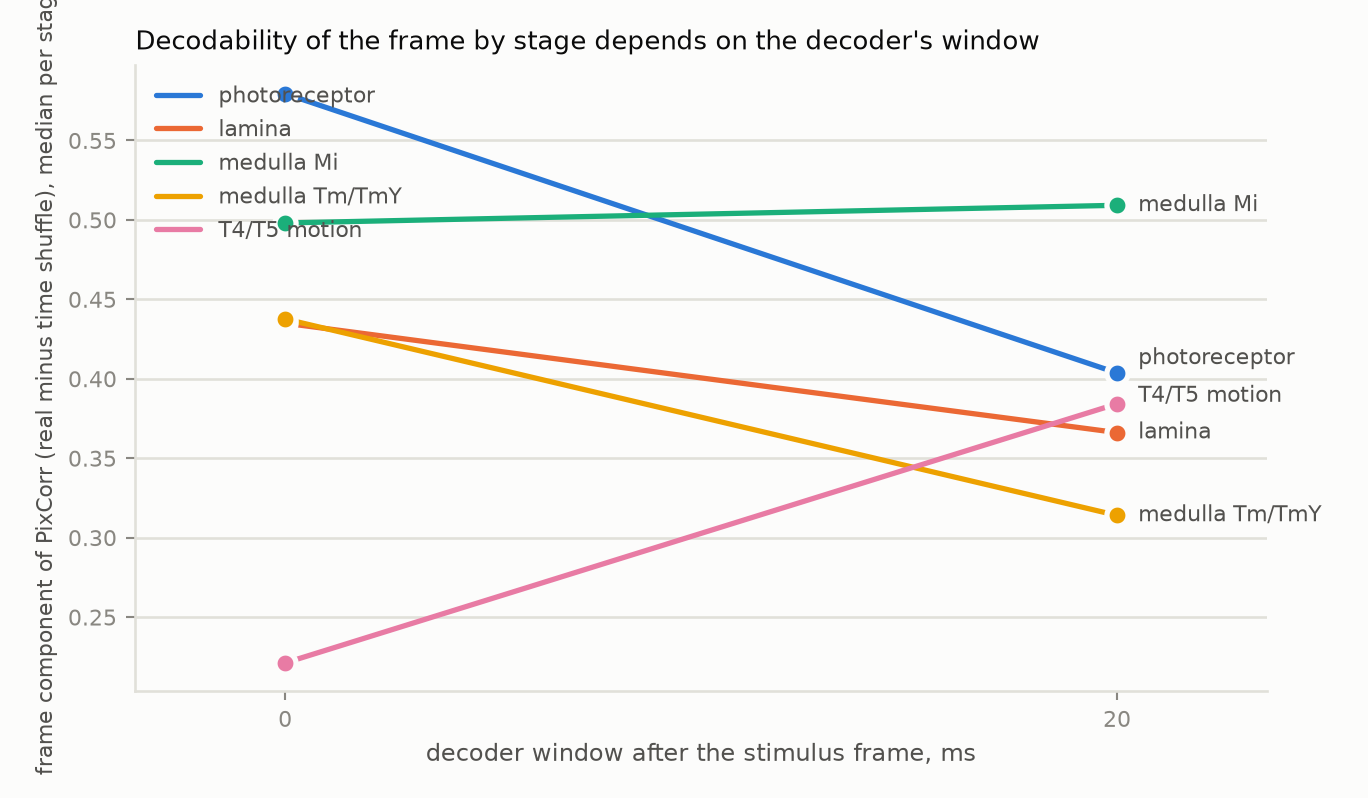
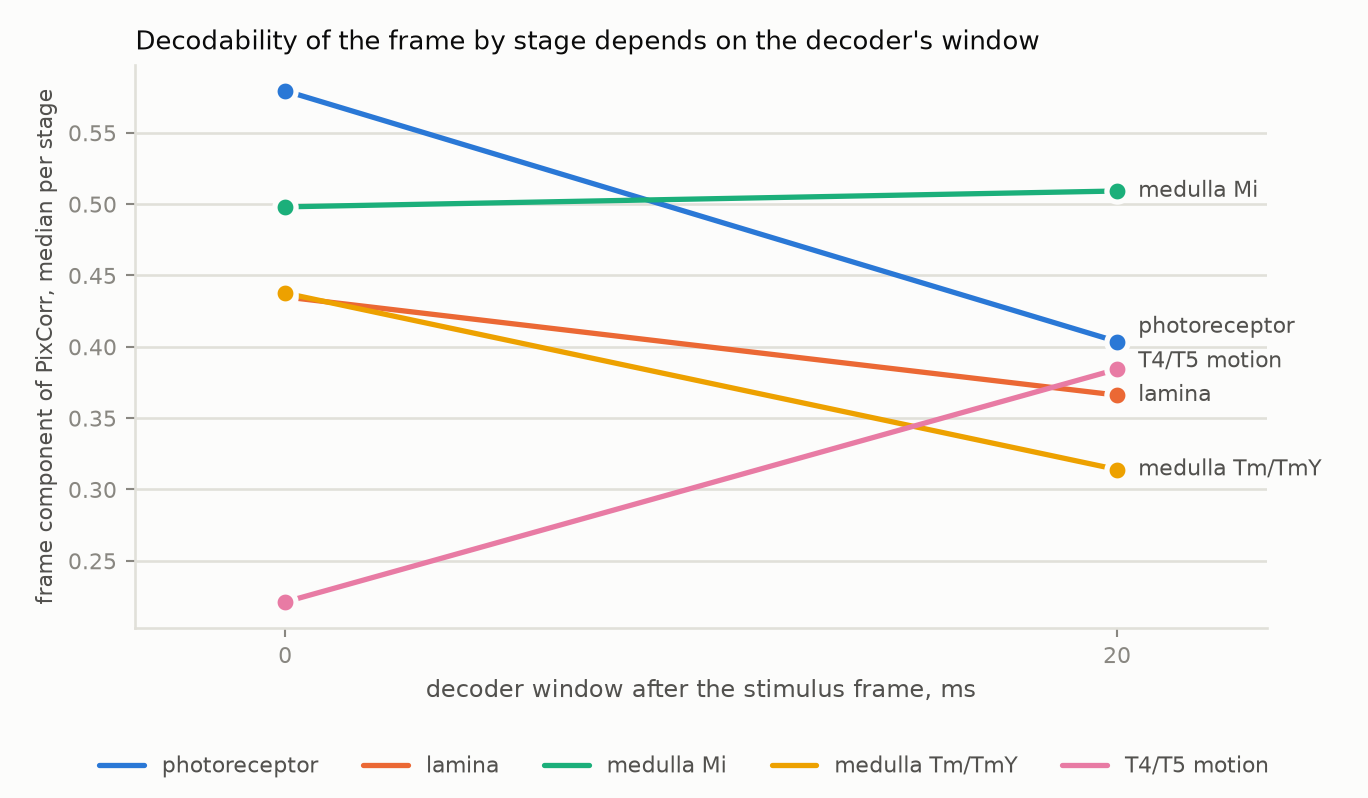
sweep chart: legend below the plot, shorter axis label

diff --git a/flydream/decode/sweep.py b/flydream/decode/sweep.py
@@ -115,13 +115,16 @@ def figure(summary: pd.DataFrame, path, title: str) -> None:
                     fontsize=8.5, color=INK2, va="center",
                     arrowprops=dict(arrowstyle="-", color=GRID, lw=1) if abs(yy - y) > 1e-9 else None)
     ax.set_xlabel("decoder window after the stimulus frame, ms", color=INK2, fontsize=9)
-    ax.set_ylabel("frame component of PixCorr (real minus time shuffle), median per stage", color=INK2, fontsize=8.5)
+    ax.set_ylabel("frame component of PixCorr, median per stage", color=INK2, fontsize=8.5)
     ax.tick_params(colors=MUTED, labelsize=8.5)
     ax.set_xticks(sorted(summary.window_ms.unique()))
     ax.set_title(title, color=INK, fontsize=10, loc="left")
-    ax.legend(frameon=False, fontsize=8.5, labelcolor=INK2, loc="upper left")
+    # the legend below the plot, never on the lines
+    handles, labels = ax.get_legend_handles_labels()
+    fig.legend(handles, labels, frameon=False, fontsize=8.5, labelcolor=INK2, loc="lower center",
+               ncol=len(labels), bbox_to_anchor=(0.5, 0.0))
     ax.margins(x=0.18)
-    fig.tight_layout()
+    fig.tight_layout(rect=(0, 0.08, 1, 1))
     path.parent.mkdir(parents=True, exist_ok=True)
     fig.savefig(path, dpi=190, facecolor=SURFACE)
     plt.close(fig)
